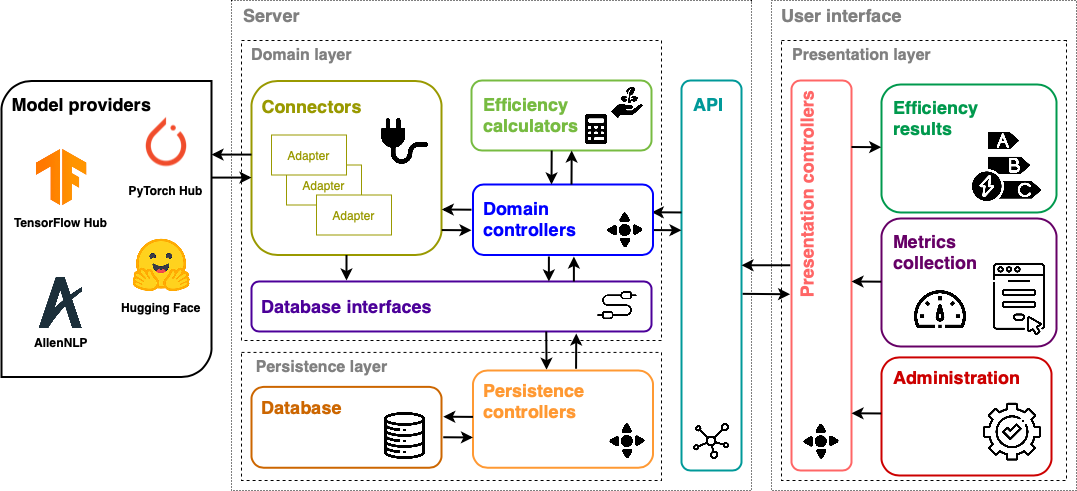
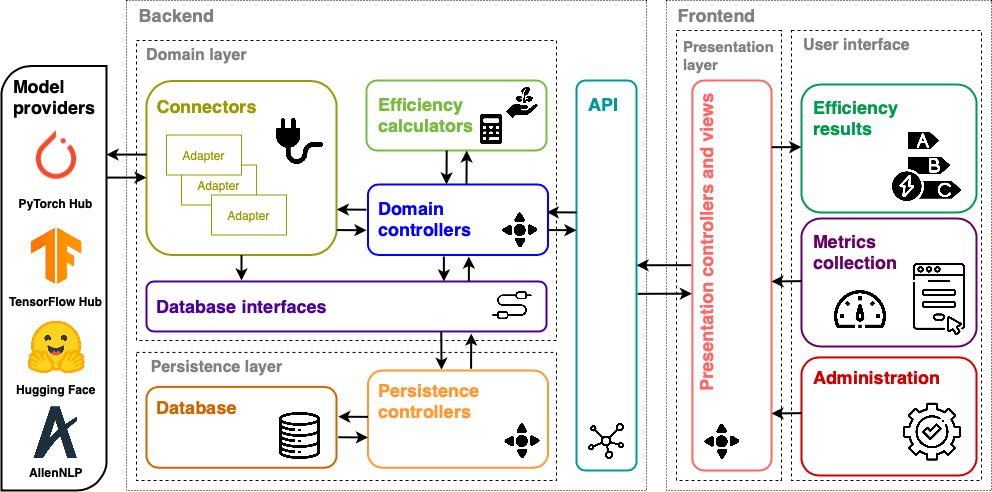
Actualitzant Readme

diff --git a/README.md b/README.md
@@ -21,10 +21,10 @@ Firstly, for both training and inference, a form is provided to collect results 
 
 Regardless of the chosen method, users have the ability to retrieve previous evaluations of training and inference. This includes all energy efficiency results calculated from the data collected from various artificial intelligence repositories.
 
-### Administration
-On the other hand, GAISSALabel has sections restricted to certain tool administrators. These administrators have access to three additional sections.
+### Management
+On the other hand, GAISSALabel has sections restricted to certain tool QA Managers. These managers have access to three additional sections.
 
-The first involves the management of synchronizations with external machine learning model providers, such as Hugging Face. Secondly, administrators can manage the metrics and additional information used to evaluate training and inferences. Finally, a management screen is provided for the calculation tools offered to users as options for obtaining energy efficiency results from files.
+The first involves the management of synchronizations with external machine learning model providers, such as Hugging Face. Secondly, managers can manage the metrics and additional information used to evaluate training and inferences. Finally, a management screen is provided for the calculation tools offered to users as options for obtaining energy efficiency results from files.
 
 ## Application Architecture and Repository Structure
 
@@ -32,9 +32,9 @@ The architecture of the application follows a three-layer structure: the present
 
 ![Application architecture](./Architecture.png)
 
-Starting with the client, on the right side of the figure, there are a series of views and controllers that respond to the various functionalities described earlier. These components can be grouped into those displaying energy efficiency results, those collecting user data, and, finally, those related to administration.
+Starting with the client (frontend), on the right side of the figure, there are a series of views and controllers that respond to the various functionalities described earlier. These components can be grouped into those displaying energy efficiency results, those collecting user data, and, finally, those related to management.
 
-On the other hand, the server is a web server. In this sense, it has an Application Programming Interface (API) from which the client has access to all the functionalities offered. Each of these functionalities is controlled by different domain controllers, which interact with the other components of the server's domain layer.
+On the other hand, the server (backend) is a web server. In this sense, it has an Application Programming Interface (API) from which the client has access to all the functionalities offered. Each of these functionalities is controlled by different domain controllers, which interact with the other components of the server's domain layer.
 
 Firstly, the efficiency calculator is responsible for evaluating the efficiency of the studied trainings and inferences. It receives the corresponding data and generates results. On the other hand, adapters or connectors with model providers allow connection to external repositories to update system data. Finally, data interfaces are elements corresponding to the logical domain layer of the application. They enable the interaction of controllers from this layer with the database of the logical persistence layer through persistence controllers.
 
